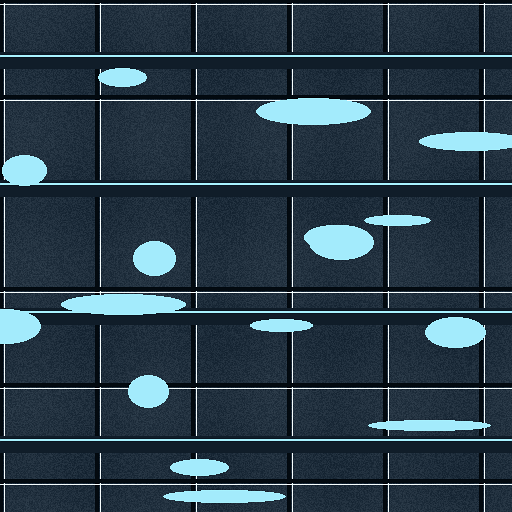
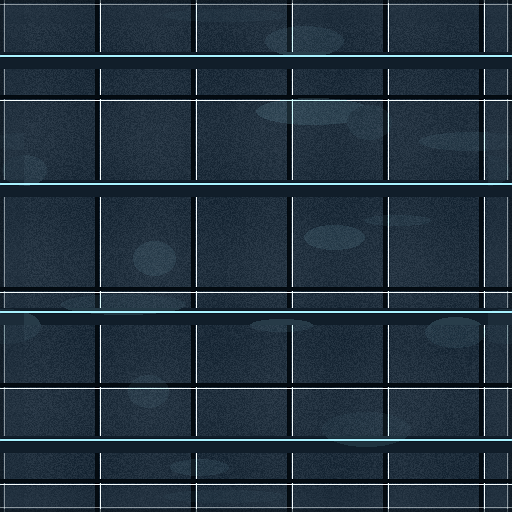
Add semantic QA gate for 70 environment candidates (#244)
* qa(environment): add semantic candidate quality gate

* ci(environment): add semantic art QA workflow

* art(environment): add deterministic tile-edge reconciler

* art(environment): make floor candidates tile seamlessly

* art(environment): make floor candidates tile seamlessly

* art(environment): make floor candidates tile seamlessly

* art(environment): make floor candidates tile seamlessly

* art(environment): add Null Sector candidate masters

* chore(art): regenerate Foundry seam-safe floors

* art(environment): add Cinder Foundry candidate masters

* chore(art): regenerate Cryo Vault seam-safe floors

* art(environment): add Cryo Vault candidate masters

* chore(art): regenerate Cryogenic Depths seam-safe floors

* art(environment): add Cryogenic Depths candidate masters

* chore(qa): rerun semantic QA after floor regeneration

* art(environment): composite cryo frost translucently

* art(environment): composite cryo frost translucently

* art(environment): add Cryo Vault candidate masters

* chore(art): regenerate Cryogenic Depths frost

* art(environment): add Cryogenic Depths candidate masters

* chore(qa): rerun after cryo frost correction

---------

diff --git a/tools/environment/qa_environment_candidates.py b/tools/environment/qa_environment_candidates.py
@@ -1,0 +1,207 @@
+#!/usr/bin/env python3
+"""Static semantic QA for authored biome environment candidates.
+
+This complements the packer with inexpensive checks that catch obvious visual
+production defects before Android capture review. It never marks art FINAL.
+"""
+from __future__ import annotations
+
+import argparse
+import hashlib
+import json
+import math
+from pathlib import Path
+
+from PIL import Image, ImageChops, ImageDraw, ImageStat
+
+ROOT = Path(__file__).resolve().parents[2]
+CONTRACT = ROOT / "config" / "environment-art-contract.json"
+SOURCE = ROOT / "art_sources" / "environment"
+DEFAULT_OUT = ROOT / "build" / "environment_art" / "semantic_qa"
+MASTER = 512
+
+
+def sha256(path: Path) -> str:
+    return hashlib.sha256(path.read_bytes()).hexdigest()
+
+
+def luminance(rgb: tuple[float, float, float]) -> float:
+    r, g, b = rgb
+    return .2126 * r + .7152 * g + .0722 * b
+
+
+def edge_rgb_mae(image: Image.Image) -> dict[str, float]:
+    rgb = image.convert("RGB")
+    left = rgb.crop((0, 0, 1, MASTER))
+    right = rgb.crop((MASTER - 1, 0, MASTER, MASTER))
+    top = rgb.crop((0, 0, MASTER, 1))
+    bottom = rgb.crop((0, MASTER - 1, MASTER, MASTER))
+    lr = ImageStat.Stat(ImageChops.difference(left, right)).mean
+    tb = ImageStat.Stat(ImageChops.difference(top, bottom)).mean
+    return {
+        "leftRightMae": round(sum(lr) / 3.0, 3),
+        "topBottomMae": round(sum(tb) / 3.0, 3),
+    }
+
+
+def border_alpha_max(image: Image.Image) -> int:
+    a = image.getchannel("A")
+    strips = [
+        a.crop((0, 0, MASTER, 2)),
+        a.crop((0, MASTER - 2, MASTER, MASTER)),
+        a.crop((0, 0, 2, MASTER)),
+        a.crop((MASTER - 2, 0, MASTER, MASTER)),
+    ]
+    return max(strip.getextrema()[1] for strip in strips)
+
+
+def alpha_coverage(image: Image.Image) -> float:
+    a = image.getchannel("A")
+    hist = a.histogram()
+    nonzero = sum(hist[1:])
+    return nonzero / float(MASTER * MASTER)
+
+
+def make_review_sheet(records: list[dict], output: Path) -> None:
+    tile = 128
+    cols = 5
+    rows = math.ceil(len(records) / cols)
+    sheet = Image.new("RGBA", (cols * tile, rows * tile), (8, 12, 16, 255))
+    for i, record in enumerate(records):
+        with Image.open(record["path"]) as raw:
+            image = raw.convert("RGBA")
+        if record["kind"] == "tile":
+            preview = Image.new("RGBA", (tile, tile), (0, 0, 0, 255))
+            unit = tile // 3
+            small = image.resize((unit, unit), Image.Resampling.LANCZOS)
+            for yy in range(3):
+                for xx in range(3):
+                    preview.alpha_composite(small, (xx * unit, yy * unit))
+        else:
+            preview = Image.new("RGBA", (tile, tile), (8, 12, 16, 255))
+            small = image.resize((64, 64), Image.Resampling.LANCZOS)
+            preview.alpha_composite(small, ((tile - 64) // 2, (tile - 64) // 2))
+        sheet.alpha_composite(preview, ((i % cols) * tile, (i // cols) * tile))
+    output.parent.mkdir(parents=True, exist_ok=True)
+    sheet.save(output, "PNG", optimize=True)
+
+
+def main() -> int:
+    parser = argparse.ArgumentParser(description=__doc__)
+    parser.add_argument("--output", type=Path, default=DEFAULT_OUT)
+    args = parser.parse_args()
+
+    contract = json.loads(CONTRACT.read_text(encoding="utf-8"))
+    biomes = [b["id"] for b in contract["biomes"]]
+    slots = contract["slots"]
+    failures: list[str] = []
+    hashes: dict[str, str] = {}
+    records: list[dict] = []
+
+    for biome in biomes:
+        manifest_path = SOURCE / biome / "candidate-manifest.json"
+        if not manifest_path.is_file():
+            failures.append(f"{biome}: missing candidate manifest")
+            continue
+        manifest = json.loads(manifest_path.read_text(encoding="utf-8"))
+        if manifest.get("asset_count") != len(slots):
+            failures.append(f"{biome}: manifest asset_count is not {len(slots)}")
+
+        for slot in slots:
+            path = SOURCE / biome / (slot["path"] + ".png")
+            if not path.is_file():
+                failures.append(f"{biome}/{slot['path']}: missing source")
+                continue
+            with Image.open(path) as raw:
+                image = raw.convert("RGBA")
+            if image.size != (MASTER, MASTER):
+                failures.append(f"{biome}/{slot['path']}: expected 512x512")
+                continue
+
+            digest = sha256(path)
+            previous = hashes.get(digest)
+            if previous:
+                failures.append(f"{biome}/{slot['path']}: exact duplicate of {previous}")
+            else:
+                hashes[digest] = f"{biome}/{slot['path']}"
+
+            alpha = image.getchannel("A")
+            extrema = alpha.getextrema()
+            bbox = alpha.getbbox()
+            coverage = alpha_coverage(image)
+            stat = ImageStat.Stat(image.convert("RGB"))
+            mean_rgb = tuple(stat.mean)
+            record = {
+                "biome": biome,
+                "slot": slot["path"],
+                "kind": slot["kind"],
+                "path": str(path),
+                "sha256": digest,
+                "alphaCoverage": round(coverage, 4),
+                "meanLuminance": round(luminance(mean_rgb), 2),
+            }
+
+            if slot["kind"] == "tile":
+                if extrema != (255, 255):
+                    failures.append(f"{biome}/{slot['path']}: floor is not fully opaque")
+                edges = edge_rgb_mae(image)
+                record.update(edges)
+                # This is a deliberately conservative automated guard. Final seam
+                # acceptance still comes from the generated 3x3 review sheet.
+                if edges["leftRightMae"] > 48 or edges["topBottomMae"] > 48:
+                    failures.append(
+                        f"{biome}/{slot['path']}: edge discontinuity too large "
+                        f"(LR={edges['leftRightMae']}, TB={edges['topBottomMae']})"
+                    )
+                if not 8 <= record["meanLuminance"] <= 155:
+                    failures.append(
+                        f"{biome}/{slot['path']}: floor luminance outside combat-safe range "
+                        f"({record['meanLuminance']})"
+                    )
+            else:
+                if bbox is None:
+                    failures.append(f"{biome}/{slot['path']}: transparent asset has no silhouette")
+                record["borderAlphaMax"] = border_alpha_max(image)
+                if record["borderAlphaMax"] > 96:
+                    failures.append(
+                        f"{biome}/{slot['path']}: silhouette touches/crowds canvas border "
+                        f"(alpha={record['borderAlphaMax']})"
+                    )
+                if coverage < .012:
+                    failures.append(
+                        f"{biome}/{slot['path']}: silhouette coverage too small ({coverage:.4f})"
+                    )
+
+            records.append(record)
+
+    args.output.mkdir(parents=True, exist_ok=True)
+    report = {
+        "schema": 1,
+        "biomes": len(biomes),
+        "slotsPerBiome": len(slots),
+        "expectedAssets": len(biomes) * len(slots),
+        "checkedAssets": len(records),
+        "failures": failures,
+        "pass": not failures and len(records) == len(biomes) * len(slots),
+        "records": records,
+    }
+    (args.output / "semantic-qa.json").write_text(
+        json.dumps(report, indent=2) + "\n", encoding="utf-8"
+    )
+    make_review_sheet(records, args.output / "environment-review-sheet.png")
+
+    print(
+        f"environment semantic QA: {len(records)}/{report['expectedAssets']} checked; "
+        f"{len(failures)} failure(s)"
+    )
+    for failure in failures:
+        print(f"  - {failure}")
+    return 0 if report["pass"] else 2
+
+
+if __name__ == "__main__":
+    raise SystemExit(main())
+
+# CI retrigger after deterministic candidate regeneration.
+
+# Final retrigger after cryo frost regeneration.

diff --git a/tools/environment/generate_cryo_vault_candidate.py b/tools/environment/generate_cryo_vault_candidate.py
@@ -4,6 +4,7 @@ from __future__ import annotations
 import argparse,json,math,random
 from pathlib import Path
 from PIL import Image,ImageChops,ImageDraw,ImageEnhance,ImageFilter
+from candidate_utils import make_tileable_edges
 
 SIZE=512
 SLOTS=("floor/concrete_a","floor/concrete_b","floor/concrete_c","floor/hazard_a",
@@ -28,14 +29,15 @@ def panels(im,spacing=128):
     for y in range(0,SIZE,spacing):
         d.line((0,y,SIZE,y),fill=(8,14,20,190),width=4); d.line((0,y+4,SIZE,y+4),fill=(*WHITE[:3],36),width=1)
 def frost(im,seed,count=26):
-    d=ImageDraw.Draw(im,"RGBA"); rnd=random.Random(seed)
+    overlay=transparent(); d=ImageDraw.Draw(overlay,"RGBA"); rnd=random.Random(seed)
     for _ in range(count):
         x,y=rnd.randrange(SIZE),rnd.randrange(SIZE); rx,ry=rnd.randrange(18,64),rnd.randrange(5,18)
-        d.ellipse((x-rx,y-ry,x+rx,y+ry),fill=(*ICE[:3],rnd.randrange(8,24)))
+        d.ellipse((x-rx,y-ry,x+rx,y+ry),fill=(*ICE[:3],rnd.randrange(10,28)))
+    im.alpha_composite(overlay)
 def finish(im,slot):
     im=im.convert("RGBA")
     if slot.startswith("floor/"):
-        im=ImageEnhance.Contrast(im).enhance(1.08); im=ImageEnhance.Sharpness(im).enhance(1.18); im.putalpha(Image.new("L",im.size,255)); return im
+        im=ImageEnhance.Contrast(im).enhance(1.08); im=ImageEnhance.Sharpness(im).enhance(1.18); im.putalpha(Image.new("L",im.size,255)); return make_tileable_edges(im)
     a=im.getchannel("A"); shadow=Image.new("RGBA",im.size,(0,0,0,0)); sm=a.filter(ImageFilter.GaussianBlur(12)); shifted=Image.new("L",im.size,0); shifted.paste(sm,(10,14)); shadow.putalpha(shifted.point(lambda p:int(p*.30)))
     out=Image.alpha_composite(shadow,im); inner=ImageChops.subtract(a,a.filter(ImageFilter.MinFilter(7))); hi=Image.new("RGBA",im.size,(220,245,250,0)); hi.putalpha(inner.point(lambda p:int(p*.26))); return ImageEnhance.Sharpness(Image.alpha_composite(out,hi)).enhance(1.24)
 
@@ -109,3 +111,5 @@ def main():
     m={"schema":1,"biome":"cryo_vault","stage":"procedural-authored-candidate-v1","production_ready":False,"visual_qa_pass":False,"generator":"tools/environment/generate_cryo_vault_candidate.py","master_size":[512,512],"asset_count":14,"assets":assets,"notes":"Cryogenic-facility candidate with frost and restrained white-blue accents. Not FINAL until premium visual QA."}
     a.manifest.write_text(json.dumps(m,indent=2)+"\n",encoding="utf-8"); print("generated 14 Cryo Vault candidate masters"); return 0
 if __name__=="__main__": raise SystemExit(main())
+
+# Regeneration trigger: seam-safe floor masters.

diff --git a/tools/environment/generate_cryogenic_depths_candidate.py b/tools/environment/generate_cryogenic_depths_candidate.py
@@ -4,6 +4,7 @@ from __future__ import annotations
 import argparse, json, math, random
 from pathlib import Path
 from PIL import Image, ImageChops, ImageDraw, ImageEnhance, ImageFilter
+from candidate_utils import make_tileable_edges
 
 SIZE=512
 SLOTS=("floor/concrete_a","floor/concrete_b","floor/concrete_c","floor/hazard_a",
@@ -33,18 +34,19 @@ def seams(im,spacing=128):
         d.line((0,y+5,SIZE,y+5),fill=(*CYAN[:3],28),width=1)
 
 def frost(im,seed,count=30):
-    d=ImageDraw.Draw(im,"RGBA"); rnd=random.Random(seed)
+    overlay=transparent(); d=ImageDraw.Draw(overlay,"RGBA"); rnd=random.Random(seed)
     for _ in range(count):
         x,y=rnd.randrange(SIZE),rnd.randrange(SIZE)
         rx,ry=rnd.randrange(20,72),rnd.randrange(6,20)
-        d.ellipse((x-rx,y-ry,x+rx,y+ry),fill=(*CYAN[:3],rnd.randrange(7,22)))
+        d.ellipse((x-rx,y-ry,x+rx,y+ry),fill=(*CYAN[:3],rnd.randrange(9,26)))
+    im.alpha_composite(overlay)
 
 def finish(im,slot):
     im=im.convert("RGBA")
     if slot.startswith("floor/"):
         im=ImageEnhance.Contrast(im).enhance(1.10)
         im=ImageEnhance.Sharpness(im).enhance(1.18)
-        im.putalpha(Image.new("L",im.size,255)); return im
+        im.putalpha(Image.new("L",im.size,255)); return make_tileable_edges(im)
     a=im.getchannel("A")
     sh=Image.new("RGBA",im.size,(0,0,0,0))
     sm=a.filter(ImageFilter.GaussianBlur(13))
@@ -177,3 +179,7 @@ def main():
 if __name__=="__main__": raise SystemExit(main())
 
 # Deterministic by design: reruns must not mutate approved candidate masters.
+
+# Regeneration trigger: seam-safe floor masters.
+
+# Regeneration trigger: translucent frost correction.

diff --git a/tools/environment/candidate_utils.py b/tools/environment/candidate_utils.py
@@ -1,0 +1,40 @@
+"""Shared deterministic finishing helpers for environment candidate generators."""
+from __future__ import annotations
+
+from PIL import Image
+
+
+def make_tileable_edges(image: Image.Image, band: int = 24) -> Image.Image:
+    """Mirror-average opposite edge bands so repeated floor tiles join cleanly.
+
+    The operation preserves the interior material treatment while making both
+    sides of each seam share the same pixel band. This is deterministic and is
+    intentionally applied only to opaque floor candidates.
+    """
+    out = image.convert("RGBA").copy()
+    width, height = out.size
+    if width < band * 2 or height < band * 2:
+        raise ValueError("image is too small for requested tileable edge band")
+
+    px = out.load()
+
+    # Pair left/right edge bands. Repeated tiles then meet with mirrored,
+    # identical neighborhoods rather than merely matching the outermost pixel.
+    for y in range(height):
+        for i in range(band):
+            left = px[i, y]
+            right = px[width - 1 - i, y]
+            avg = tuple((left[c] + right[c]) // 2 for c in range(4))
+            px[i, y] = avg
+            px[width - 1 - i, y] = avg
+
+    # Pair top/bottom after horizontal reconciliation so corners also agree.
+    for x in range(width):
+        for i in range(band):
+            top = px[x, i]
+            bottom = px[x, height - 1 - i]
+            avg = tuple((top[c] + bottom[c]) // 2 for c in range(4))
+            px[x, i] = avg
+            px[x, height - 1 - i] = avg
+
+    return out

diff --git a/tools/environment/generate_cinder_foundry_candidate.py b/tools/environment/generate_cinder_foundry_candidate.py
@@ -8,6 +8,7 @@ from __future__ import annotations
 import argparse, json, math, random
 from pathlib import Path
 from PIL import Image, ImageChops, ImageDraw, ImageEnhance, ImageFilter
+from candidate_utils import make_tileable_edges
 
 SIZE=512
 SLOTS=(
@@ -54,7 +55,7 @@ def finish(img,slot,seed):
         img=ImageEnhance.Contrast(img).enhance(1.12)
         img=ImageEnhance.Sharpness(img).enhance(1.22)
         img.putalpha(Image.new("L",img.size,255))
-        return img
+        return make_tileable_edges(img)
     alpha=img.getchannel("A")
     shadow=Image.new("RGBA",img.size,(0,0,0,0)); sm=alpha.filter(ImageFilter.GaussianBlur(12))
     shifted=Image.new("L",img.size,0); shifted.paste(sm,(10,14)); shadow.putalpha(shifted.point(lambda p:int(p*.36)))
@@ -186,3 +187,5 @@ def main():
     print("generated 14 Cinder Foundry candidate masters")
     return 0
 if __name__=="__main__": raise SystemExit(main())
+
+# Regeneration trigger: seam-safe floor masters.

diff --git a/tools/environment/generate_null_sector_candidate.py b/tools/environment/generate_null_sector_candidate.py
@@ -7,6 +7,7 @@ from __future__ import annotations
 import argparse, json, math, random
 from pathlib import Path
 from PIL import Image, ImageChops, ImageDraw, ImageEnhance, ImageFilter
+from candidate_utils import make_tileable_edges
 
 SIZE=512
 SLOTS=(
@@ -46,7 +47,7 @@ def finish(img,slot):
         img=ImageEnhance.Contrast(img).enhance(1.08)
         img=ImageEnhance.Sharpness(img).enhance(1.18)
         img.putalpha(Image.new("L",img.size,255))
-        return img
+        return make_tileable_edges(img)
     a=img.getchannel("A")
     sh=Image.new("RGBA",img.size,(0,0,0,0)); m=a.filter(ImageFilter.GaussianBlur(12)); shifted=Image.new("L",img.size,0); shifted.paste(m,(9,13)); sh.putalpha(shifted.point(lambda p:int(p*.34)))
     out=Image.alpha_composite(sh,img)
